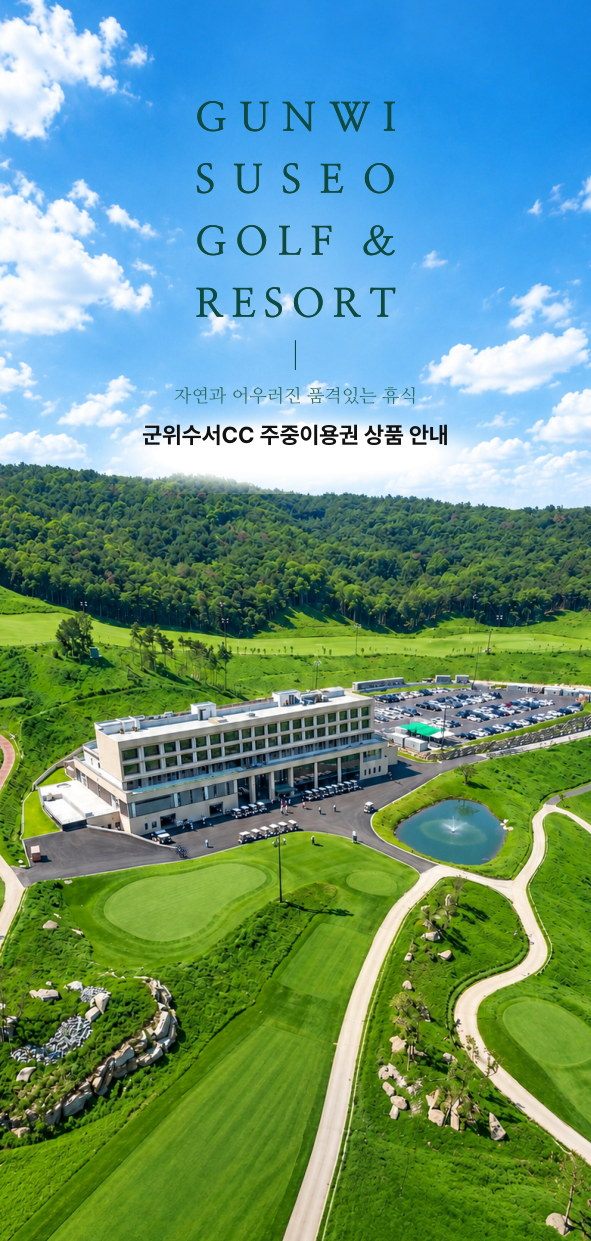
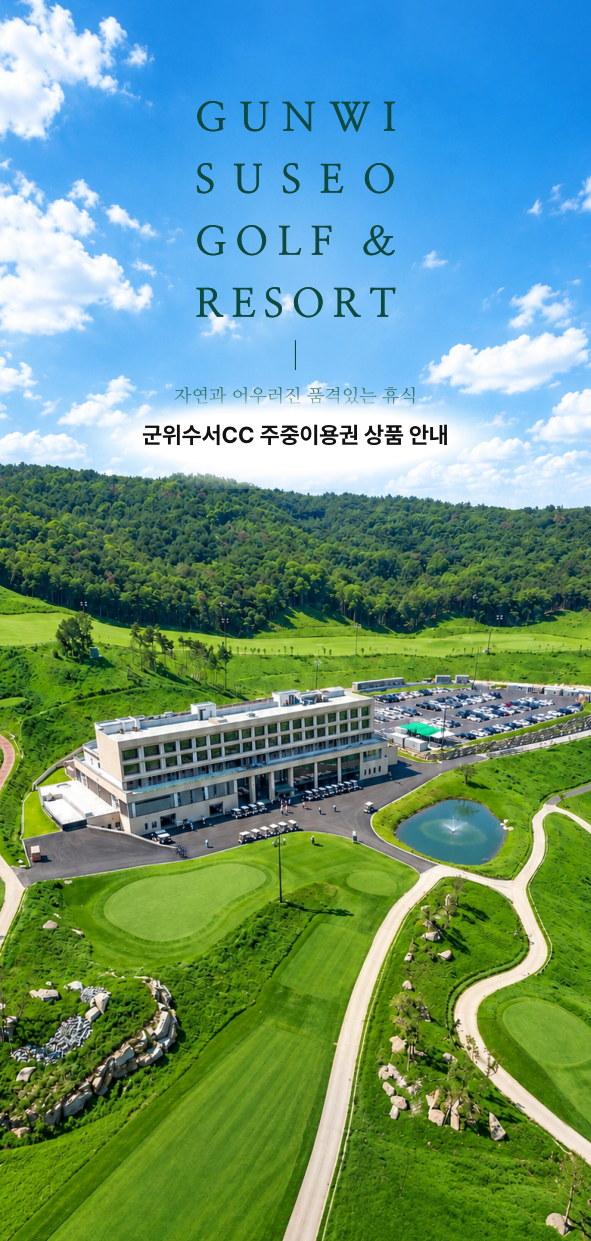
v7: 구름 본체를 글자 줄 중심으로

Changed region(s): [[0.1523, 0.3062, 0.8528, 0.3981]]

diff --git a/leaflet/index.html b/leaflet/index.html
@@ -90,7 +90,7 @@
 
 <script>
 (function () {
-  var BUILD = '202609071608';   // 이미지 캐시 무효화용. 빌드마다 갱신
+  var BUILD = '202609071610';   // 이미지 캐시 무효화용. 빌드마다 갱신
   var VERS = [
     ['v6_ryu', 'v6 류성현'],
     ['v6_lee', 'v6 이승재'],
